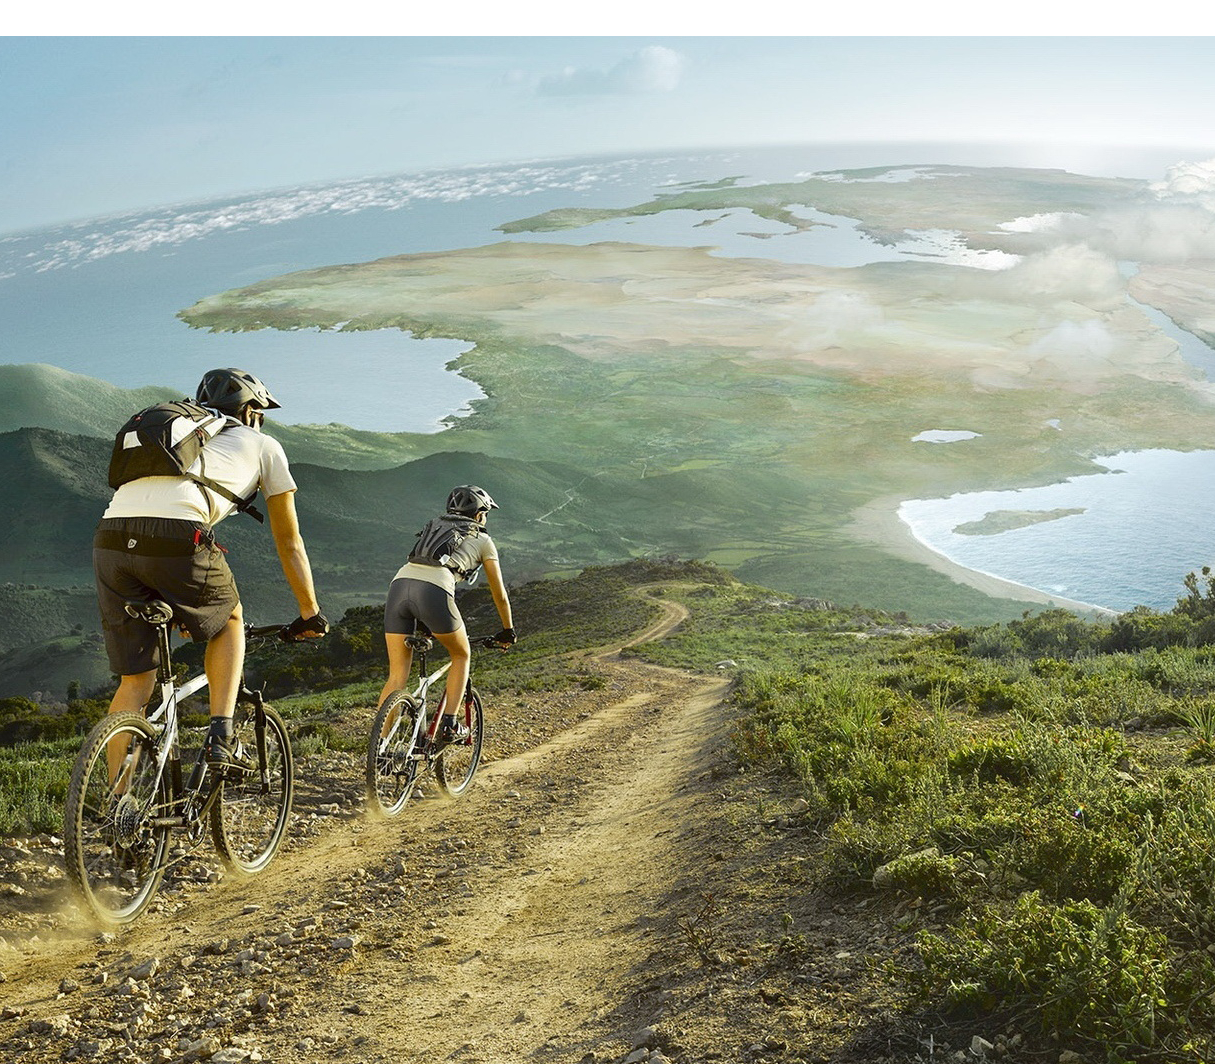
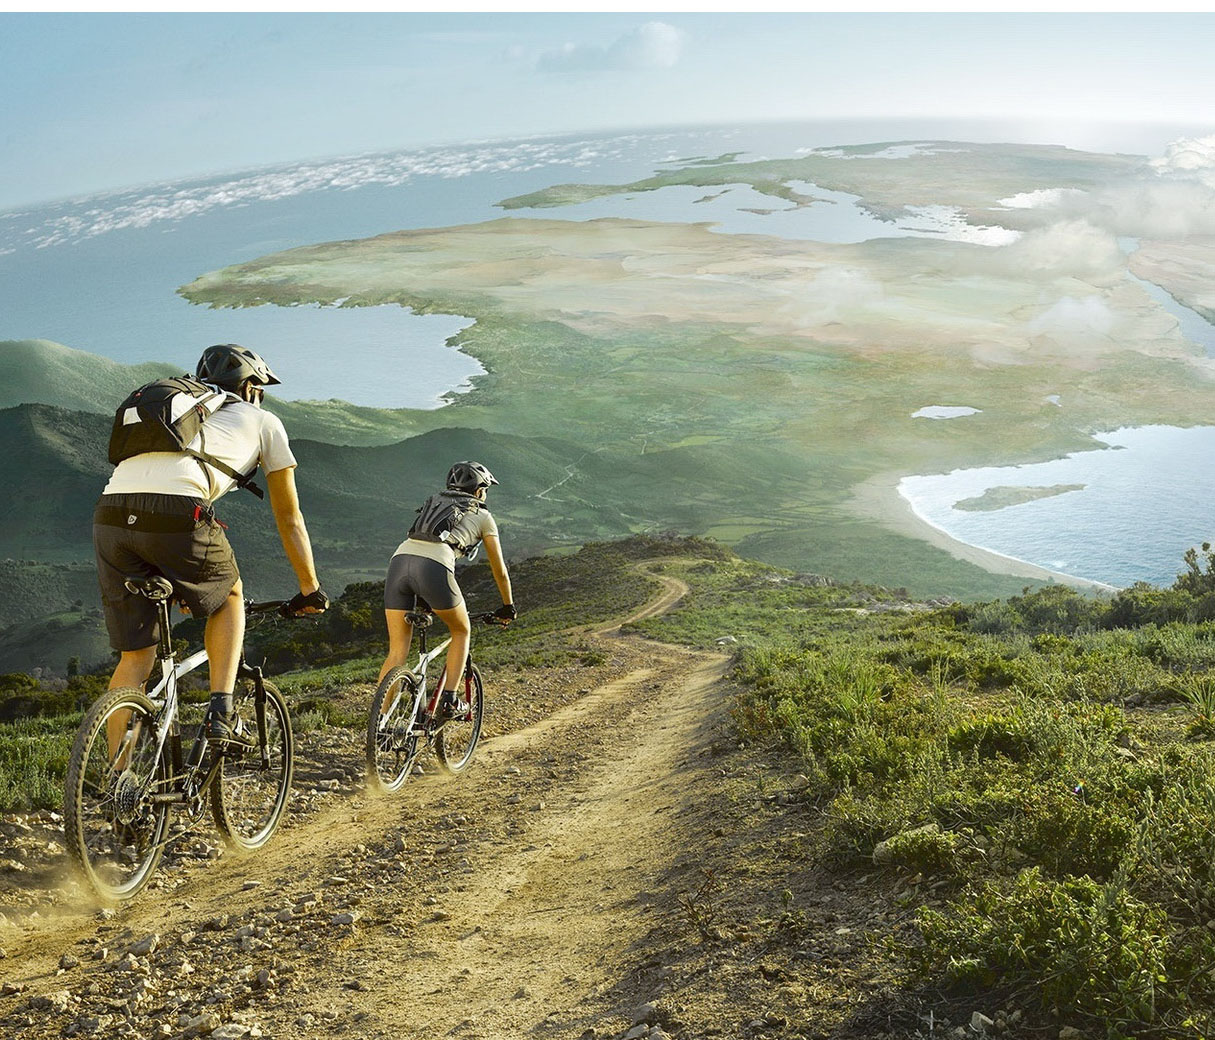
added content

diff --git a/css/style.css b/css/style.css
@@ -30,7 +30,17 @@ body{
     width: 1215px;
     height: 1064px;
     background: url(../img/Background-copy.jpg) no-repeat;
+    -webkit-background-size: cover;
+    background-size: cover;
 }
+.clearfix:after{
+    content: "";
+    display: table;
+    clear: both;
+}
+
+/*HEADER*/
+
 header{
     font-size: 14px;
     text-align: center;
@@ -55,32 +65,27 @@ header{
     color: #fff;
 }
 .header-offer{
-    margin: 3px 0;
     float: right;
     line-height: 34px;
-    border-left: 1px solid #56a2dc;
 }
 .header-offer a{
     display: block;
-    background: url(../img/flag.png) no-repeat 0 5px;
-    padding: 0 15px 0 30px;
-    margin-left: 20px;
+    background: url(../img/flag.png) no-repeat 20px 5px;
+    padding: 0 15px 0 50px;
+    margin: 3px 0;
     color: #fefefe;
     text-decoration: none;
+    border-left: 1px solid #56a2dc;
 }
 .header-offer:hover{
     background-color: #4eabda;
 }
-/*.top-menu:after{*/
-    /*content: "";*/
-    /*height: 35px;*/
-    /*border-left:1px solid white;*/
-    /*left:20px;*/
-/*}*/
+
 .header-login div{
     float: right;
     margin-right: 10px;
 }
+
 nav{
     height: 40px;
     background: url("../img/top-menu-bg.png");
@@ -109,23 +114,101 @@ nav{
     justify-content: center;
     align-items: center;
 }
-.content h1{
-    text-align: center;
-    font-size: 24px;
-    color: white;
-    line-height: 65px;
-     border-bottom: 2px solid #c0cbbb;
-}
-form {
+.center-wrapper{
     width: 560px;
     height: 613px;
     background-color: rgba(0, 0, 0, 0.63);
 }
-
+.center-wrapper h1{
+    text-align: center;
+    font-size: 24px;
+    color: white;
+    line-height: 65px;
+    border-bottom: 2px solid #c0cbbb;
+}
+.center-form{
+    width: 276px;
+    margin:  auto;
+    position: relative;
+}
+.facebook{
+    background: url("../img/facebook.png") no-repeat;
+    width: 276px;
+    height: 35px;
+    border: 0;
+    margin-top: 36px;;
+}
 .ou-line{
-    display: block;
-    margin: 20px;
+    text-align: center;
+    margin: 30px 0;
+    color: #999;
+}
+.ou-line:before{
+    content: "";
+    position: absolute;
     width: 120px;
+    top: 110px;
+    left: 0;
     border-bottom: 1px solid black;
     border-top: 1px solid #666;
+}
+.ou-line:after{
+    content: "";
+    position: absolute;
+    width: 120px;
+    top: 110px;
+    right: 0;
+    border-bottom: 1px solid black;
+    border-top: 1px solid #666;
+}
+
+/*FORM*/
+[type="text"],[type='email'],[type="password"]{
+    box-sizing: border-box;
+    width: 100%;
+    height: 35px;
+    background: url("../img/bg-input.png")repeat-x  ;
+    color: #cccccc;
+    border: 0;
+    padding: 0 20px;
+    box-shadow: 0 1px #4b4b4b;
+    margin-bottom: 20px;
+}
+[type="checkbox"]{
+    width: 14px;
+    height: 14px;
+    margin: 0;
+    padding: 0;
+    vertical-align: middle;
+}
+.input-focus:focus{
+    background-image: linear-gradient(to top, #1b5288 0%, #1b5288 100%);
+    outline: none;
+    box-shadow: 0 1px 0 #689bcc,
+    inset 0 2px 5px rgba(29, 26, 22, 0.2),
+    0px 0px 10px 4px rgba(47, 123, 197, 0.77),
+    inset 0 0 2px rgba(0, 0, 0, 0.1);
+}
+label{
+    font-size:14px;
+    color: #ccc;
+}
+[type="submit"]{
+    display: block;
+    margin: 16px auto;
+    background-color: #4299d2;
+    color: #fff;
+    border: 0;
+    background-image: -webkit-linear-gradient(bottom, rgba(0,0,0,.3) 20%, rgba(255,255,255,.3));
+    background-image: -moz-linear-gradient(bottom, rgba(0,0,0,.3) 20%, rgba(255,255,255,.3));
+    background-image: -o-linear-gradient(bottom, rgba(0,0,0,.3) 20%, rgba(255,255,255,.3));
+    background-image: -ms-linear-gradient(bottom, rgba(0,0,0,.3) 20%, rgba(255,255,255,.3));
+    background-image: linear-gradient(to top, rgba(0,0,0,.3) 20%, rgba(255,255,255,.3));
+    width: 149px;
+    height: 35px;
+}
+.center-form p{
+    color: #ccc;
+    text-align: center;
+    font-size:11px;
 }

diff --git a/index.html b/index.html
@@ -7,34 +7,52 @@
     <link rel="stylesheet" href="css/style.css">
 </head>
 <body>
-    <div class="wrapper">
-        <header>
-            <div class="header-registration">Ola!
-                <a href="#">Entrar</a>  ou <a href="#">Cadastre-se</a>
-            </div>
-            <div class="header-offer">
-                <a href="#" class="offer">Minhas Ofertas</a>
-            </div>
-
-            <nav>
-                <ul class="top-menu">
-                    <li><a href="#">Meu YouBike</a></li>
-                    <li><a href="#">Vender</a></li>
-                    <li><a href="#">Forum</a></li>
-                    <li><a href="#">Contato</a></li>
-                    <li><a href="#">Ajuda</a></li>
-                </ul>
-            </nav>
-        </header>
-        <div class="content">
-            <form action="">
-                <h1>Cadastre-se</h1>
-                <span class="ou-line"></span>
-            </form>
-
+<div class="wrapper">
+    <header class="clearfix">
+        <div class="header-registration">Ola!
+            <a href="#">Entrar</a> ou <a href="#">Cadastre-se</a>
+        </div>
+        <div class="header-offer">
+            <a href="#" class="offer">Minhas Ofertas</a>
         </div>
 
-    </div>
+        <nav>
+            <ul class="top-menu">
+                <li><a href="#">Meu YouBike</a></li>
+                <li><a href="#">Vender</a></li>
+                <li><a href="#">Forum</a></li>
+                <li><a href="#">Contato</a></li>
+                <li><a href="#">Ajuda</a></li>
+            </ul>
+        </nav>
+    </header>
+    <div class="content">
+        <div class="center-wrapper">
+            <h1>Cadastre-se</h1>
+            <div class="center-form">
+                <button class="facebook"></button>
+                <div class="ou-line"> OU</div>
 
+                <form action="">
+                    <input type="text" name="first-name" placeholder="First Name" class="input-focus">
+                    <input type="text" name="last-name" placeholder="Last Name" class="input-focus">
+                    <input type="email" name="email" placeholder="Email Address" class="input-focus">
+                    <input type="password" name="password" placeholder="Choose Password" class="input-focus">
+                    <input type="password" name="password-confirm" placeholder="Password Confirm" class="input-focus">
+                    <input type="checkbox" name="subscript" id="subscript">
+                    <label for="subscript">
+                        Send me Youbike updates and tips
+                    </label>
+                    <input type="submit" class="submit" value="Create my Account"></input>
+                </form>
+                <p>By clicking the button above, you agree to the Terms of Service
+                    Xiew our Privacy Policy.</p>
+
+            </div>
+        </div>
+
+
+    </div>
+</div>
 </body>
 </html>
